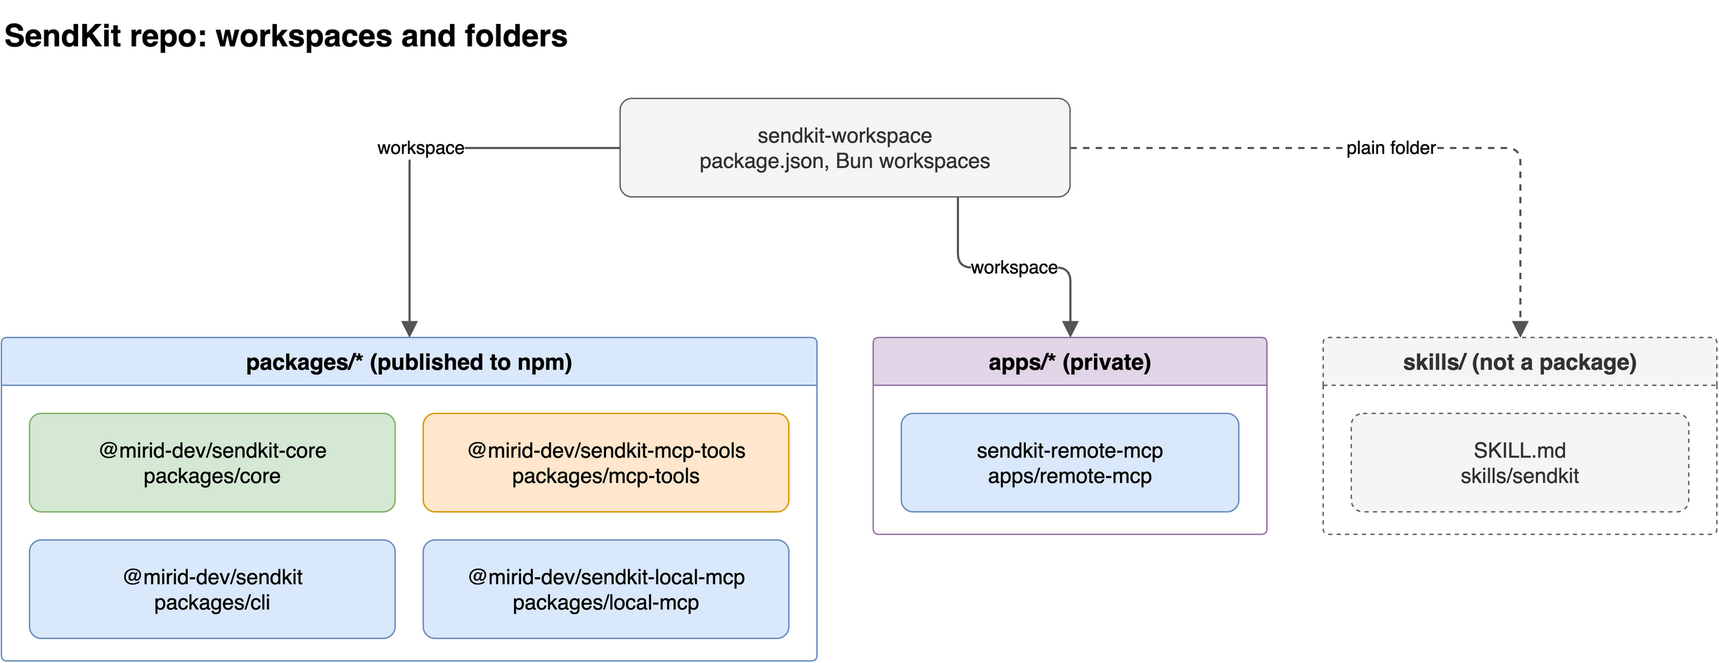
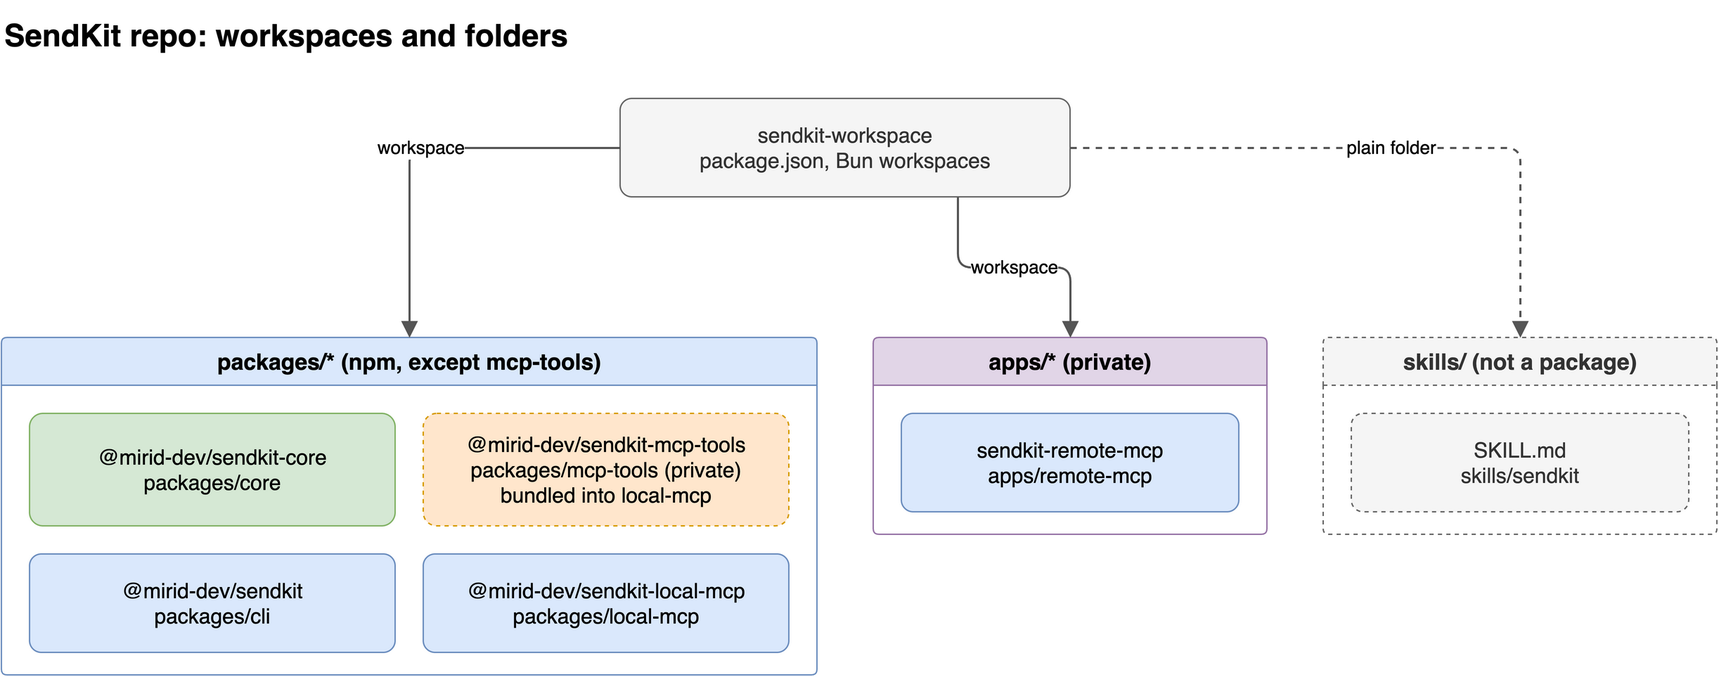
docs(notes): document the private mcp-tools, shared tsdown config, and core input rules
- Make the core README the single source for input rules and error messages, and link to it from the root README
- Point to the docs that repeat the input rules from schemas.ts
- Update the root README packages table, scripts table, and publish order
- Update both notes and redraw the package map and publish order diagrams

diff --git a/packages/core/src/schemas.ts b/packages/core/src/schemas.ts
@@ -1,5 +1,8 @@
 import { z } from 'zod'
 
+// The input rules and error messages in this package are documented in packages/core/README.md and
+// skills/sendkit/SKILL.md, and summarised in the cli and local-mcp READMEs; update those when they change
+
 // Telegram rejects message text longer than this
 const TELEGRAM_MAX_MESSAGE_LENGTH = 4096
 

diff --git a/notes/02-publish-npm-with-tsdown.md b/notes/02-publish-npm-with-tsdown.md
@@ -1,6 +1,6 @@
 # Publish an npm package with tsdown
 
-This note follows the four publishable packages in this repo. These are `packages/core`, `packages/mcp-tools`, `packages/cli`, and `packages/local-mcp`. `apps/remote-mcp` is `"private": true`, and npm "will refuse to publish it" (<https://docs.npmjs.com/cli/v11/configuring-npm/package-json>).
+This note follows the three publishable packages in this repo. These are `packages/core`, `packages/cli`, and `packages/local-mcp`. `packages/mcp-tools` and `apps/remote-mcp` are `"private": true`, and npm "will refuse to publish" a private package (<https://docs.npmjs.com/cli/v11/configuring-npm/package-json>). `mcp-tools` reaches npm users only inside the `local-mcp` bundle (section 1).
 
 - **tsdown**: a library bundler built on Rolldown that turns TypeScript entry files into JavaScript and, optionally, `.d.ts` files.
 - **Tarball**: the `.tgz` archive that `pack` creates and `publish` uploads. It is the only thing the registry stores.
@@ -9,28 +9,31 @@ No command in this note was run against the registry. The build and the `pack` c
 
 ## 1. What tsdown emits
 
-Each package has its own `tsdown.config.ts`, and every `build` script is just `tsdown`. The four configs are identical apart from `dts`, `target`, and the dependency list:
+Each published package has its own `tsdown.config.ts`, and every `build` script is just `tsdown`. The settings the packages share live once in the root `tsdown.base.ts`, whose `definePackageBuild({ dts, target, neverBundle })` takes only the three settings that differ. Each package config imports it as `'../../tsdown.base.ts'`: tsdown loads configs with Node's native TypeScript support, which needs the explicit `.ts` extension, so the root `tsconfig.json` sets `rewriteRelativeImportExtensions`. That option permits `.ts` import paths and stays valid in configs that emit. `allowImportingTsExtensions` would also permit them, but TypeScript rejects it (TS5096) in any config without `noEmit`, which includes every package's `tsconfig.json` and `tsconfig.build.json`.
 
-| Option               | core / mcp-tools                      | cli                      | local-mcp          | Meaning                                                                                                                                             |
-| -------------------- | ------------------------------------- | ------------------------ | ------------------ | --------------------------------------------------------------------------------------------------------------------------------------------------- |
-| `entry`              | `['src/index.ts']`                    | same                     | same               | Starting file of the bundle. "These files serve as the starting points for the bundling process." (<https://tsdown.dev/options/entry>)              |
-| `outDir`             | `'dist'`                              | same                     | same               | Output folder. Also the default: "By default, `tsdown` bundles your code into the `dist` directory" (<https://tsdown.dev/options/output-directory>) |
-| `format`             | `['esm']`                             | same                     | same               | ES modules only, which matches `"type": "module"`                                                                                                   |
-| `dts`                | `true`                                | `false`                  | `false`            | Emit `dist/index.d.ts`. Only libraries need types (<https://tsdown.dev/options/dts>)                                                                |
-| `target`             | `node20`                              | `node22.12`              | `node20`           | Matches each package's `engines.node`                                                                                                               |
-| `tsconfig`           | `tsconfig.build.json`                 | same                     | same               | Build-only tsconfig with `declaration`, `outDir: dist`, `rootDir: src`                                                                              |
-| `sourcemap`, `clean` | `true`                                | same                     | same               | Emit `.js.map` files, and empty `dist/` before each build                                                                                           |
-| `outExtensions`      | `.js` / `.d.ts`                       | same                     | same               | Fixes the file extensions that `package.json` points to                                                                                             |
-| `deps.neverBundle`   | `zod` (+ core, MCP SDK for mcp-tools) | core, `commander`, `zod` | mcp-tools, MCP SDK | Keep these as `import` statements in the output                                                                                                     |
+| Option               | core                  | cli                      | local-mcp            | Meaning                                                                                                                                             |
+| -------------------- | --------------------- | ------------------------ | -------------------- | --------------------------------------------------------------------------------------------------------------------------------------------------- |
+| `entry`              | `['src/index.ts']`    | same                     | same                 | Starting file of the bundle. "These files serve as the starting points for the bundling process." (<https://tsdown.dev/options/entry>)              |
+| `outDir`             | `'dist'`              | same                     | same                 | Output folder. Also the default: "By default, `tsdown` bundles your code into the `dist` directory" (<https://tsdown.dev/options/output-directory>) |
+| `format`             | `['esm']`             | same                     | same                 | ES modules only, which matches `"type": "module"`                                                                                                   |
+| `dts`                | `true`                | `false`                  | `false`              | Emit `dist/index.d.ts`. Only libraries need types (<https://tsdown.dev/options/dts>)                                                                |
+| `target`             | `node20`              | `node22.12`              | `node20`             | Matches each package's `engines.node`                                                                                                               |
+| `tsconfig`           | `tsconfig.build.json` | same                     | same                 | Build-only tsconfig with `declaration`, `outDir: dist`, `rootDir: src`                                                                              |
+| `sourcemap`, `clean` | `true`                | same                     | same                 | Emit `.js.map` files, and empty `dist/` before each build                                                                                           |
+| `outExtensions`      | `.js` / `.d.ts`       | same                     | same                 | Fixes the file extensions that `package.json` points to                                                                                             |
+| `deps.neverBundle`   | `zod`                 | core, `commander`, `zod` | core, MCP SDK, `zod` | Keep these as `import` statements in the output                                                                                                     |
 
 On `deps.neverBundle`: tsdown already "does not bundle dependencies" listed in `dependencies` or `peerDependencies`. `deps.neverBundle` is the current name of the old `external` option (<https://tsdown.dev/options/dependencies>). The repo lists the same names explicitly, so the externals do not depend on that default.
+
+**Bundling the private mcp-tools.** `local-mcp` lists `@mirid-dev/sendkit-mcp-tools` under `devDependencies` and leaves it out of `neverBundle`, so tsdown inlines it into `dist/index.js`. mcp-tools' own runtime imports (core, the MCP SDK, `zod`) move into `local-mcp`'s `dependencies`, because the bundle now imports them directly. mcp-tools exports `./src/index.ts` and has no build of its own, since its only consumers bundle it (`local-mcp`) or run it from source (`apps/remote-mcp`).
 
 Running `bun run build` from the root produced the following output (tsdown 0.23.4):
 
 - `packages/core/dist/`: `index.js`, `index.js.map`, `index.d.ts`, `index.d.ts.map`.
 - `packages/cli/dist/`: `index.js` (4.21 kB) and `index.js.map`, with no `.d.ts`.
 - tsdown keeps the `#!/usr/bin/env node` line from `src/index.ts` and logs `Granting execute permission to dist/index.js` for `cli` and `local-mcp`.
-- `import { version } from '../package.json'` is inlined. `packages/cli/dist/index.js` contains `var version = "0.0.1";`. A version bump therefore requires a rebuild, or `--version` reports the old number.
+- `packages/local-mcp/dist/index.js` (1.51 kB) contains `registerTelegramTool` inline and imports only `@modelcontextprotocol/server`, `zod`, and `@mirid-dev/sendkit-core`. Installing the packed tarball with npm outside the repo pulls the published `@mirid-dev/sendkit-core` from the registry, and the server answers `initialize`, `tools/list`, and `tools/call` over stdio.
+- `import { version } from '../package.json'` is inlined. `packages/cli/dist/index.js` contains `var version = "0.0.2";`. A version bump therefore requires a rebuild, or `--version` reports the old number.
 - `dts` generation runs on `typescript@7.0.2` and prints a warning that TypeScript 7's API is experimental. The build still succeeds.
 
 ![tsdown inputs, outputs, and the package.json fields that point at them](diagrams/08-tsdown-build.png)
@@ -40,7 +43,7 @@ _Caption: `package.json` points only into `dist/`, so publishing without buildin
 
 The **entry points** are the `package.json` fields that tell Node, bundlers, and npm which file to load or link. tsdown can generate them (`exports: true`, <https://tsdown.dev/options/package-exports>). This repo does not use that option and writes them by hand.
 
-**Libraries (`packages/core`, `packages/mcp-tools`):**
+**Library (`packages/core`):**
 
 ```json
 "main": "./dist/index.js",
@@ -71,41 +74,39 @@ The **entry points** are the `package.json` fields that tell Node, bundlers, and
 - These packages have no `exports`, because nothing imports them.
 - npm always includes `package.json`, `README`, `LICENSE`, and the `bin` file, whatever `files` says (same source). The cli tarball holds 5 files: `package.json`, `LICENSE`, `README.md`, `dist/index.js`, and `dist/index.js.map`.
 
-**Shared fields in all four packages:**
+**Shared fields in all three published packages:**
 
 - `"publishConfig": { "access": "public" }`. `publishConfig` is "a set of config values that will be used at publish-time" (same source). For a scoped package it removes the need to pass `--access public`.
 - `"prepublishOnly": "bun run build"`. npm defines this hook as: "Runs BEFORE the package is prepared and packed, ONLY on `npm publish`." It does not run on `npm pack` (<https://docs.npmjs.com/cli/v11/using-npm/scripts>). Bun runs `prepublishOnly` only "when `bun publish` packs the package itself". A pre-built tarball such as `bun publish ./pkg.tgz` runs no lifecycle scripts (<https://bun.com/docs/cli/publish>). This is why each `pack:dry` script is `bun run build && bun pm pack --dry-run`. The script builds explicitly because `pack` does not trigger `prepublishOnly`.
 
 ## 3. Publish order in this repo
 
-The repo has no publish script. The root `package.json` provides `build`, `build:<pkg>`, and four `release:pack:<pkg>` scripts, and each of those runs the package's `pack:dry`. Publishing is a manual step run from the package directory.
+The repo has no publish script. The root `package.json` provides `build`, `build:<pkg>`, and three `release:pack:<pkg>` scripts, and each of those runs the package's `pack:dry`. Publishing is a manual step run from the package directory.
 
 **Dependency graph after packing:**
 
 - `core` depends on `zod` only.
-- `mcp-tools` depends on `core`.
 - `cli` depends on `core`.
-- `local-mcp` depends on `mcp-tools`.
+- `local-mcp` depends on `core`. Its bundled copy of `mcp-tools` imports core at runtime.
 
 The order follows that graph:
 
 1. **Build.** `bun run build` (root) runs `tsdown` in every `packages/*`.
 2. **Dry-run.** `bun run release:pack:core` (and the others) prints the exact file list without writing a tarball. Check that `dist/` is present and that nothing unexpected is included.
 3. **Publish core.** In `packages/core`: `bun publish --dry-run`, then `bun publish`.
-4. **Publish the direct dependents of core.** Publish `packages/cli` and `packages/mcp-tools` in either order.
-5. **Publish local-mcp.** It needs `mcp-tools` at the exact version its manifest pins.
-6. **Verify.** Run `npm view <name> version dependencies` for each package, then `npx -y @mirid-dev/sendkit-local-mcp@latest` or `npx @mirid-dev/sendkit --version` from outside the repo.
+4. **Publish the dependents of core.** Publish `packages/cli` and `packages/local-mcp` in either order. Each pins the exact core version its manifest resolves to.
+5. **Verify.** Run `npm view <name> version dependencies` for each package, then `npx -y @mirid-dev/sendkit-local-mcp@latest` or `npx @mirid-dev/sendkit --version` from outside the repo.
 
 ![Publish order constrained by the dependency graph](diagrams/09-publish-order.png)
-_Caption: cli and mcp-tools can go in either order, but both must wait for core, and local-mcp must wait for mcp-tools._
+_Caption: cli and local-mcp can go in either order, but both must wait for core. mcp-tools is never published._
 
-**Workspace protocol.** The **workspace protocol** is a dependency specifier such as `workspace:*` that means "the copy in this monorepo". `packages/cli/package.json:27` declares `"@mirid-dev/sendkit-core": "workspace:*"`, and mcp-tools and local-mcp use the same form. The registry cannot resolve that specifier. The pack step must rewrite it to a published version.
+**Workspace protocol.** The **workspace protocol** is a dependency specifier such as `workspace:*` that means "the copy in this monorepo". `packages/cli/package.json:27` declares `"@mirid-dev/sendkit-core": "workspace:*"`, and local-mcp uses the same form. The registry cannot resolve that specifier. The pack step must rewrite it to a published version.
 
 Bun does this rewrite. `bun publish` "strips catalog and workspace protocols from the package.json, resolving versions if necessary" (<https://bun.com/docs/cli/publish>). npm does not. Both behaviours were checked locally on `packages/cli`:
 
 | Command                   | `@mirid-dev/sendkit-core` in the tarball's `package.json` |
 | ------------------------- | --------------------------------------------------------- |
-| `bun pm pack` (bun 1.4.4) | `"0.0.1"`                                                 |
+| `bun pm pack` (bun 1.4.4) | `"0.0.2"`                                                 |
 | `npm pack` (npm 11.6.2)   | `"workspace:*"`, unchanged                                |
 
 Installing the npm-built tarball fails with `npm error code EUNSUPPORTEDPROTOCOL` / `Unsupported URL Type "workspace:": workspace:*`. In this repo, publish with `bun publish`, never `npm publish`.
@@ -113,9 +114,9 @@ Installing the npm-built tarball fails with `npm error code EUNSUPPORTEDPROTOCOL
 ![Bun rewrites the workspace protocol, and npm copies it unchanged](diagrams/10-workspace-to-registry.png)
 _Caption: the rewrite happens at pack time, so the tool that builds the tarball decides whether the package can be installed._
 
-**Exact pins.** pnpm documents the same rewrite rule that Bun applies here: `workspace:*` becomes the exact version (`1.5.0`), and `workspace:^` becomes `^1.5.0` (<https://pnpm.io/workspaces>). The published manifests confirm exact pins. `npm view @mirid-dev/sendkit dependencies` shows `"@mirid-dev/sendkit-core": "0.0.1"`, and `npm view @mirid-dev/sendkit-local-mcp dependencies` shows `"@mirid-dev/sendkit-mcp-tools": "0.0.1"`. The consequence: a core fix reaches CLI users only after a new CLI version is published that pins the new core. Switching to `workspace:^` would let a patched core reach existing CLI installs without a CLI release.
+**Exact pins.** pnpm documents the same rewrite rule that Bun applies here: `workspace:*` becomes the exact version (`1.5.0`), and `workspace:^` becomes `^1.5.0` (<https://pnpm.io/workspaces>). The published manifests confirm exact pins. `npm view @mirid-dev/sendkit@0.0.1 dependencies` shows `"@mirid-dev/sendkit-core": "0.0.1"`, and `local-mcp@0.0.1` pins `"@mirid-dev/sendkit-mcp-tools": "0.0.1"`. From `0.0.2`, `local-mcp` pins `"@mirid-dev/sendkit-core"` instead, plus a `devDependencies` entry for the private `mcp-tools` at `"0.0.0"`, which npm never installs for consumers. The consequence: a core fix reaches CLI users only after a new CLI version is published that pins the new core. Switching to `workspace:^` would let a patched core reach existing CLI installs without a CLI release.
 
-**Versions.** All four packages are at `0.0.1` in source and on the registry. Once a name and version are published, "that specific name and version combination can never be used again" (<https://docs.npmjs.com/cli/v11/commands/npm-publish>). Every later release therefore starts by changing the `version` field of each package being released. This note does not pick a version number.
+**Versions.** core, cli, and local-mcp are released together under one version number, so cli and local-mcp always pin the core published alongside them. `0.0.2` was the first such release, after core's exports narrowed and mcp-tools was bundled into local-mcp. `@mirid-dev/sendkit-mcp-tools` stays on the registry at `0.0.1` and earlier, deprecated, and its source version is now `0.0.0`. Once a name and version are published, "that specific name and version combination can never be used again" (<https://docs.npmjs.com/cli/v11/commands/npm-publish>). Every later release therefore starts by changing the `version` field of each package being released. Bump all three together.
 
 ## 4. General publish rule
 

diff --git a/README.md b/README.md
@@ -10,20 +10,20 @@ SendKit has one operation, `sendTelegramMessage`, and exposes it three ways:
 
 ## Packages
 
-| Path                 | Package                                                                                      | What it is                                                    |
-| -------------------- | -------------------------------------------------------------------------------------------- | ------------------------------------------------------------- |
-| `packages/core`      | [`@mirid-dev/sendkit-core`](https://www.npmjs.com/package/@mirid-dev/sendkit-core)           | zod schemas and `sendTelegramMessage`                         |
-| `packages/mcp-tools` | [`@mirid-dev/sendkit-mcp-tools`](https://www.npmjs.com/package/@mirid-dev/sendkit-mcp-tools) | `registerTelegramTool`, shared by both MCP servers            |
-| `packages/cli`       | [`@mirid-dev/sendkit`](https://www.npmjs.com/package/@mirid-dev/sendkit)                     | The `sendkit` command                                         |
-| `packages/local-mcp` | [`@mirid-dev/sendkit-local-mcp`](https://www.npmjs.com/package/@mirid-dev/sendkit-local-mcp) | stdio MCP server                                              |
-| `apps/remote-mcp`    | `sendkit-remote-mcp` (private)                                                               | HTTP MCP server with Clerk OAuth, run from source with Bun    |
-| `skills/sendkit`     | none                                                                                         | Agent skill that explains when to use the MCP tool or the CLI |
+| Path                 | Package                                                                                      | What it is                                                                      |
+| -------------------- | -------------------------------------------------------------------------------------------- | ------------------------------------------------------------------------------- |
+| `packages/core`      | [`@mirid-dev/sendkit-core`](https://www.npmjs.com/package/@mirid-dev/sendkit-core)           | zod schemas and `sendTelegramMessage`                                           |
+| `packages/mcp-tools` | `@mirid-dev/sendkit-mcp-tools` (private)                                                     | `registerTelegramTool`, shared by both MCP servers and bundled into `local-mcp` |
+| `packages/cli`       | [`@mirid-dev/sendkit`](https://www.npmjs.com/package/@mirid-dev/sendkit)                     | The `sendkit` command                                                           |
+| `packages/local-mcp` | [`@mirid-dev/sendkit-local-mcp`](https://www.npmjs.com/package/@mirid-dev/sendkit-local-mcp) | stdio MCP server                                                                |
+| `apps/remote-mcp`    | `sendkit-remote-mcp` (private)                                                               | HTTP MCP server with Clerk OAuth, run from source with Bun                      |
+| `skills/sendkit`     | none                                                                                         | Agent skill that explains when to use the MCP tool or the CLI                   |
 
 Each published package has its own README with full usage details.
 
 ## Quick start
 
-You need a bot token from [@BotFather](https://t.me/BotFather) and the chat ID to send to. A chat ID is a number (negative for groups) or a public `@channelusername`. Messages can be up to 4096 characters.
+You need a bot token from [@BotFather](https://t.me/BotFather) and the chat ID to send to. The accepted chat ID formats, message limits, and error messages are documented once in [`packages/core`](packages/core/README.md).
 
 ### CLI
 
@@ -87,19 +87,19 @@ cp .mcp.json.example .mcp.json     # runs the local MCP server from source
 
 During development the packages import each other's TypeScript source through a `source` export condition, so you don't need to build first.
 
-| Script                                                   | What it does                                   |
-| -------------------------------------------------------- | ---------------------------------------------- |
-| `bun run dev:cli -- <args>`                              | Run the CLI from source                        |
-| `bun run dev:local-mcp`                                  | Run the local MCP server from source           |
-| `bun run dev:remote-mcp`                                 | Run the remote MCP server from source          |
-| `bun run build`                                          | Build every package in `packages/` with tsdown |
-| `bun run release:pack:<core\|mcp-tools\|cli\|local-mcp>` | Build a package and dry-run `bun pm pack`      |
-| `bun run test`                                           | Run the tests with `bun test`                  |
-| `bun run typecheck`                                      | Type-check with `tsc`                          |
-| `bun run lint` / `lint:fix`                              | Lint with oxlint                               |
-| `bun run format` / `format:check`                        | Format with oxfmt                              |
+| Script                                        | What it does                                                                |
+| --------------------------------------------- | --------------------------------------------------------------------------- |
+| `bun run dev:cli -- <args>`                   | Run the CLI from source                                                     |
+| `bun run dev:local-mcp`                       | Run the local MCP server from source                                        |
+| `bun run dev:remote-mcp`                      | Run the remote MCP server from source                                       |
+| `bun run build`                               | Build the published packages with tsdown, using the shared `tsdown.base.ts` |
+| `bun run release:pack:<core\|cli\|local-mcp>` | Build a package and dry-run `bun pm pack`                                   |
+| `bun run test`                                | Run the tests with `bun test`                                               |
+| `bun run typecheck`                           | Type-check with `tsc`                                                       |
+| `bun run lint` / `lint:fix`                   | Lint with oxlint                                                            |
+| `bun run format` / `format:check`             | Format with oxfmt                                                           |
 
-Publish in dependency order: `core` first, then `cli` and `mcp-tools` in either order, then `local-mcp` once `mcp-tools` is out.
+Publish in dependency order: `core` first, then `cli` and `local-mcp` in either order. `mcp-tools` is never published: tsdown bundles it into `local-mcp`, and `remote-mcp` runs it from source.
 
 ## Notes
 

diff --git a/notes/01-sendkit-architecture.md b/notes/01-sendkit-architecture.md
@@ -12,16 +12,16 @@ The root `package.json` is private, is named `sendkit-workspace`, and declares `
 
 ## 2. Packages and apps
 
-The tree contains four publishable packages, one private app, and one skill folder. Nothing else is present. In particular, no `packages/remote-mcp` exists, and the remote server lives under `apps/`.
+The tree contains three publishable packages, one private package, one private app, and one skill folder. Nothing else is present. In particular, no `packages/remote-mcp` exists, and the remote server lives under `apps/`.
 
-| Path                 | npm name                       | Role                                                                    | Published                     |
-| -------------------- | ------------------------------ | ----------------------------------------------------------------------- | ----------------------------- |
-| `packages/core`      | `@mirid-dev/sendkit-core`      | zod schemas and `sendTelegramMessage`                                   | yes, library                  |
-| `packages/mcp-tools` | `@mirid-dev/sendkit-mcp-tools` | `registerTelegramTool(server, getBotToken)`, shared by both MCP servers | yes, library                  |
-| `packages/cli`       | `@mirid-dev/sendkit`           | `sendkit init` and `sendkit telegram <chatId> <message>`                | yes, `bin: sendkit`           |
-| `packages/local-mcp` | `@mirid-dev/sendkit-local-mcp` | stdio MCP server                                                        | yes, `bin: sendkit-local-mcp` |
-| `apps/remote-mcp`    | `sendkit-remote-mcp`           | Streamable HTTP MCP server with Clerk OAuth                             | no, `"private": true`         |
-| `skills/sendkit`     | none                           | `SKILL.md`, which is agent instructions                                 | no, not a package             |
+| Path                 | npm name                       | Role                                                                    | Published                                     |
+| -------------------- | ------------------------------ | ----------------------------------------------------------------------- | --------------------------------------------- |
+| `packages/core`      | `@mirid-dev/sendkit-core`      | zod schemas and `sendTelegramMessage`                                   | yes, library                                  |
+| `packages/mcp-tools` | `@mirid-dev/sendkit-mcp-tools` | `registerTelegramTool(server, getBotToken)`, shared by both MCP servers | no, `"private": true`; bundled into local-mcp |
+| `packages/cli`       | `@mirid-dev/sendkit`           | `sendkit init` and `sendkit telegram <chatId> <message>`                | yes, `bin: sendkit`                           |
+| `packages/local-mcp` | `@mirid-dev/sendkit-local-mcp` | stdio MCP server                                                        | yes, `bin: sendkit-local-mcp`                 |
+| `apps/remote-mcp`    | `sendkit-remote-mcp`           | Streamable HTTP MCP server with Clerk OAuth                             | no, `"private": true`                         |
+| `skills/sendkit`     | none                           | `SKILL.md`, which is agent instructions                                 | no, not a package                             |
 
 ![Workspace folders and the packages inside them](diagrams/04-package-map.png)
 _Caption: `skills/` hangs off the root as a plain folder, outside the `apps/*` and `packages/*` workspace globs._
@@ -38,7 +38,7 @@ core owns the schemas and the operation. Every other package imports from core, 
 - `packages/core/src/operations.ts:12-65` exports `sendTelegramMessage`. It parses the options, POSTs to `https://api.telegram.org/bot<token>/sendMessage` with a 10-second `AbortSignal.timeout`, removes the token from network errors (`:36`), validates the response with `safeParse`, and returns the parsed output.
 - `packages/mcp-tools/src/index.ts:16-44` registers a tool named `telegram`. It uses `telegramMessageInputSchema` as the input schema and core's output schema with `sentAt` changed to an ISO string, because structured content travels as JSON (`:10-13`).
 - `packages/cli/src/index.ts:46-60` validates argv with `telegramMessageInputSchema`, loads the token from `~/.config/sendkit/config.json` (`packages/cli/src/config.ts:7`), and calls `sendTelegramMessage`.
-- `packages/local-mcp` and `apps/remote-mcp` depend on `@mirid-dev/sendkit-mcp-tools`, not on core directly. Their `package.json` files do not list core. They reach it transitively.
+- `apps/remote-mcp` depends on `@mirid-dev/sendkit-mcp-tools` and reaches core transitively. `packages/local-mcp` lists mcp-tools as a dev dependency and core as a runtime dependency, because tsdown bundles mcp-tools into its `dist/index.js` and the bundle imports core directly. mcp-tools exports its TypeScript source and has no build of its own.
 
 The adapters differ in one respect only: where the bot token comes from. The CLI reads a file, local-mcp reads an environment variable, and remote-mcp reads a URL path segment. Each passes the token into core, and core validates it with `telegramMessageOptionsSchema.shape.botToken` (`schemas.ts:27-32`). No adapter calls Telegram itself, and no package imports an adapter.
 

diff --git a/packages/core/README.md b/packages/core/README.md
@@ -26,6 +26,21 @@ console.log(result.messageId, result.chatId, result.sentAt)
 
 `sendTelegramMessage` validates its input, calls the Telegram Bot API `sendMessage` method with a 10-second timeout, and resolves to `{ messageId, chatId, sentAt }`. `chatId` comes back numeric even when you pass an `@channelusername`. Errors never include the bot token.
 
+## Input
+
+| Field      | Rules                                                                                                 |
+| ---------- | ----------------------------------------------------------------------------------------------------- |
+| `chatId`   | Numeric chat ID (negative for groups), or a public `@channelusername` of at least 5 characters        |
+| `message`  | Not blank, at most 4096 characters                                                                    |
+| `botToken` | A token like `123456789:ABC-DEF...` from [@BotFather](https://t.me/BotFather), without a `bot` prefix |
+
+## Errors
+
+- `Telegram API error (<status>): <description>`: Telegram rejected the request, for example an invalid token or unknown chat ID.
+- `Could not reach Telegram: <reason>`: a network failure, or no response within 10 seconds.
+- `Unexpected response from Telegram (HTTP <status>)`: the response wasn't Telegram's JSON. When it adds `the message may still have been sent`, check the chat before resending.
+- A `ZodError` for input that breaks the rules above, such as `Use a numeric chat ID or @channelusername` or `Telegram allows at most 4096 characters`.
+
 ## Exports
 
 - `sendTelegramMessage(options)`
